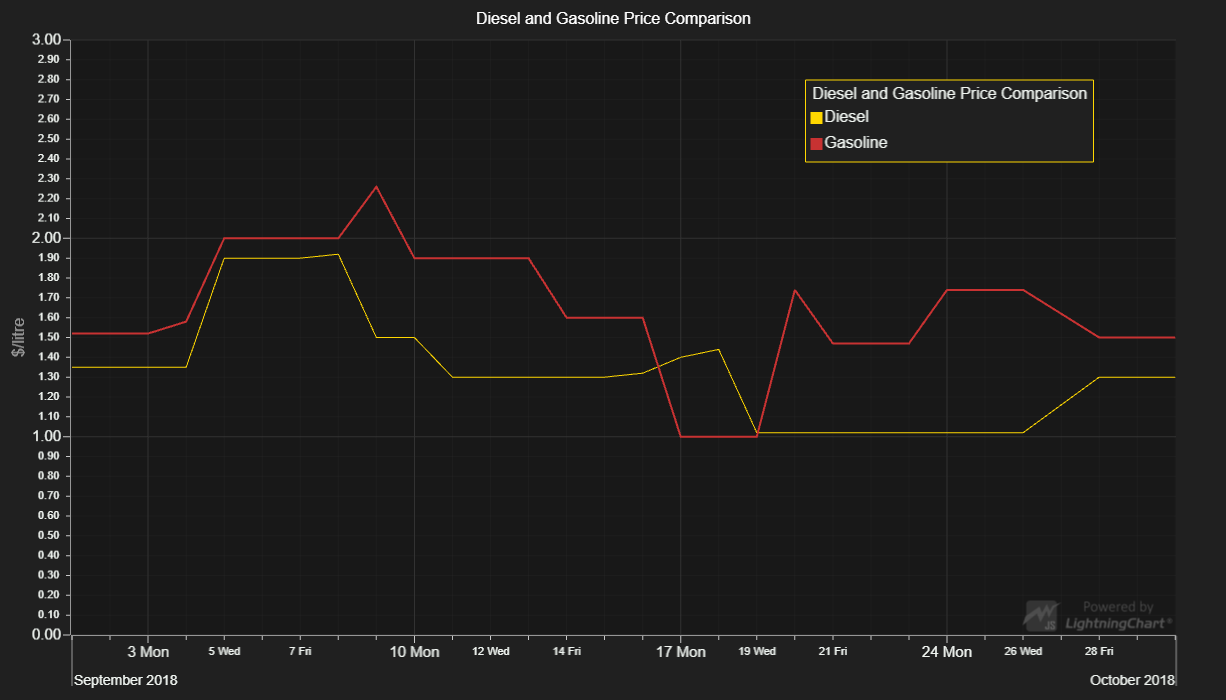
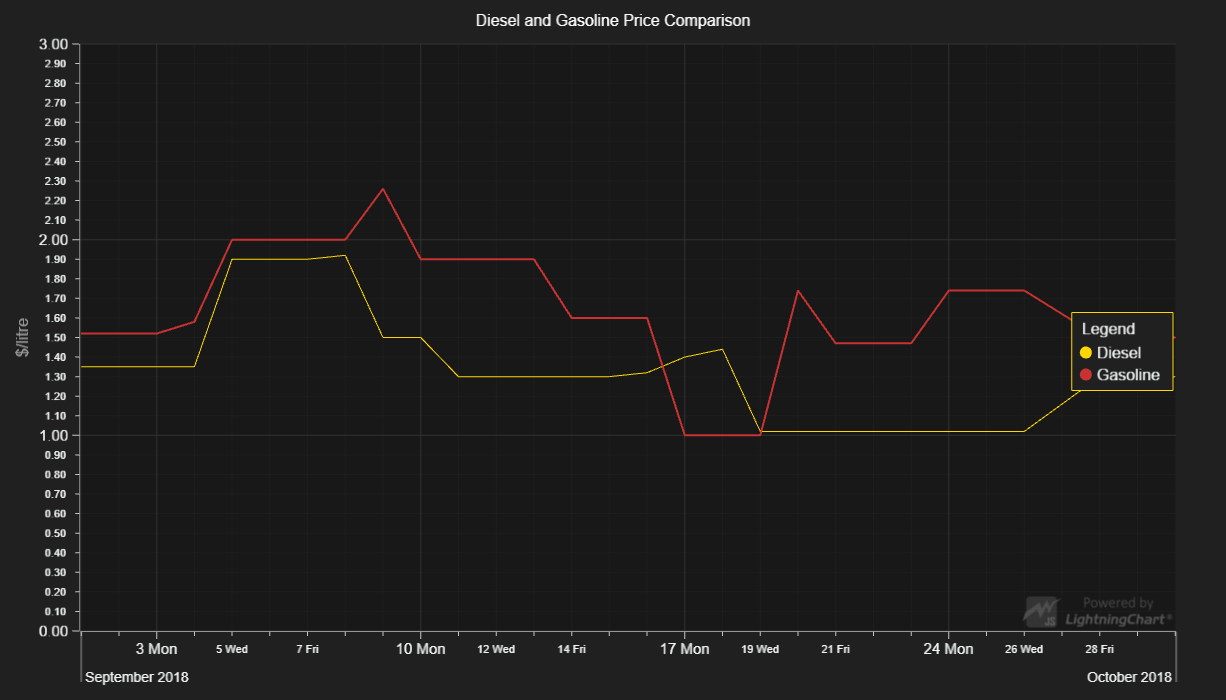
LCJS 3.0.0

diff --git a/src/index.js b/src/index.js
@@ -99,10 +99,10 @@ const gasoline = [
 ]
 
 // Add two line series.
-const lineSeries = chart.addLineSeries({ dataPattern: DataPatterns.horizontalProgressive })
+const lineSeries = chart.addLineSeries()
     .setName('Diesel')
 
-const lineSeries2 = chart.addLineSeries({ dataPattern: DataPatterns.horizontalProgressive })
+const lineSeries2 = chart.addLineSeries()
     .setName('Gasoline')
     .setStrokeStyle(customStrokeStyle)
 
@@ -126,9 +126,6 @@ chart.setAutoCursor(cursor => cursor
     .setTickMarkerYAutoTextStyle(true)
 )
 const legend = chart.addLegendBox()
-    .setOrigin(UIOrigins.RightTop)
-    .setPosition({ x: 90, y: 90 })
-    .setMargin({ left: 10, right: 10, top: 10, bottom: 10 })
 
 // Add Chart to LegendBox.
 legend.add(chart)

diff --git a/README.md b/README.md
@@ -77,6 +77,6 @@ Direct developer email support can be purchased through a [Support Plan][4] or b
 © Arction Ltd 2009-2020. All rights reserved.
 
 
-[XY cartesian chart]: https://www.arction.com/lightningchart-js-api-documentation/v2.2.0/classes/chartxy.html
-[Line series]: https://www.arction.com/lightningchart-js-api-documentation/v2.2.0/classes/lineseries.html
+[XY cartesian chart]: https://www.arction.com/lightningchart-js-api-documentation/v3.0.0/classes/chartxy.html
+[Line series]: https://www.arction.com/lightningchart-js-api-documentation/v3.0.0/classes/lineseries.html
 
